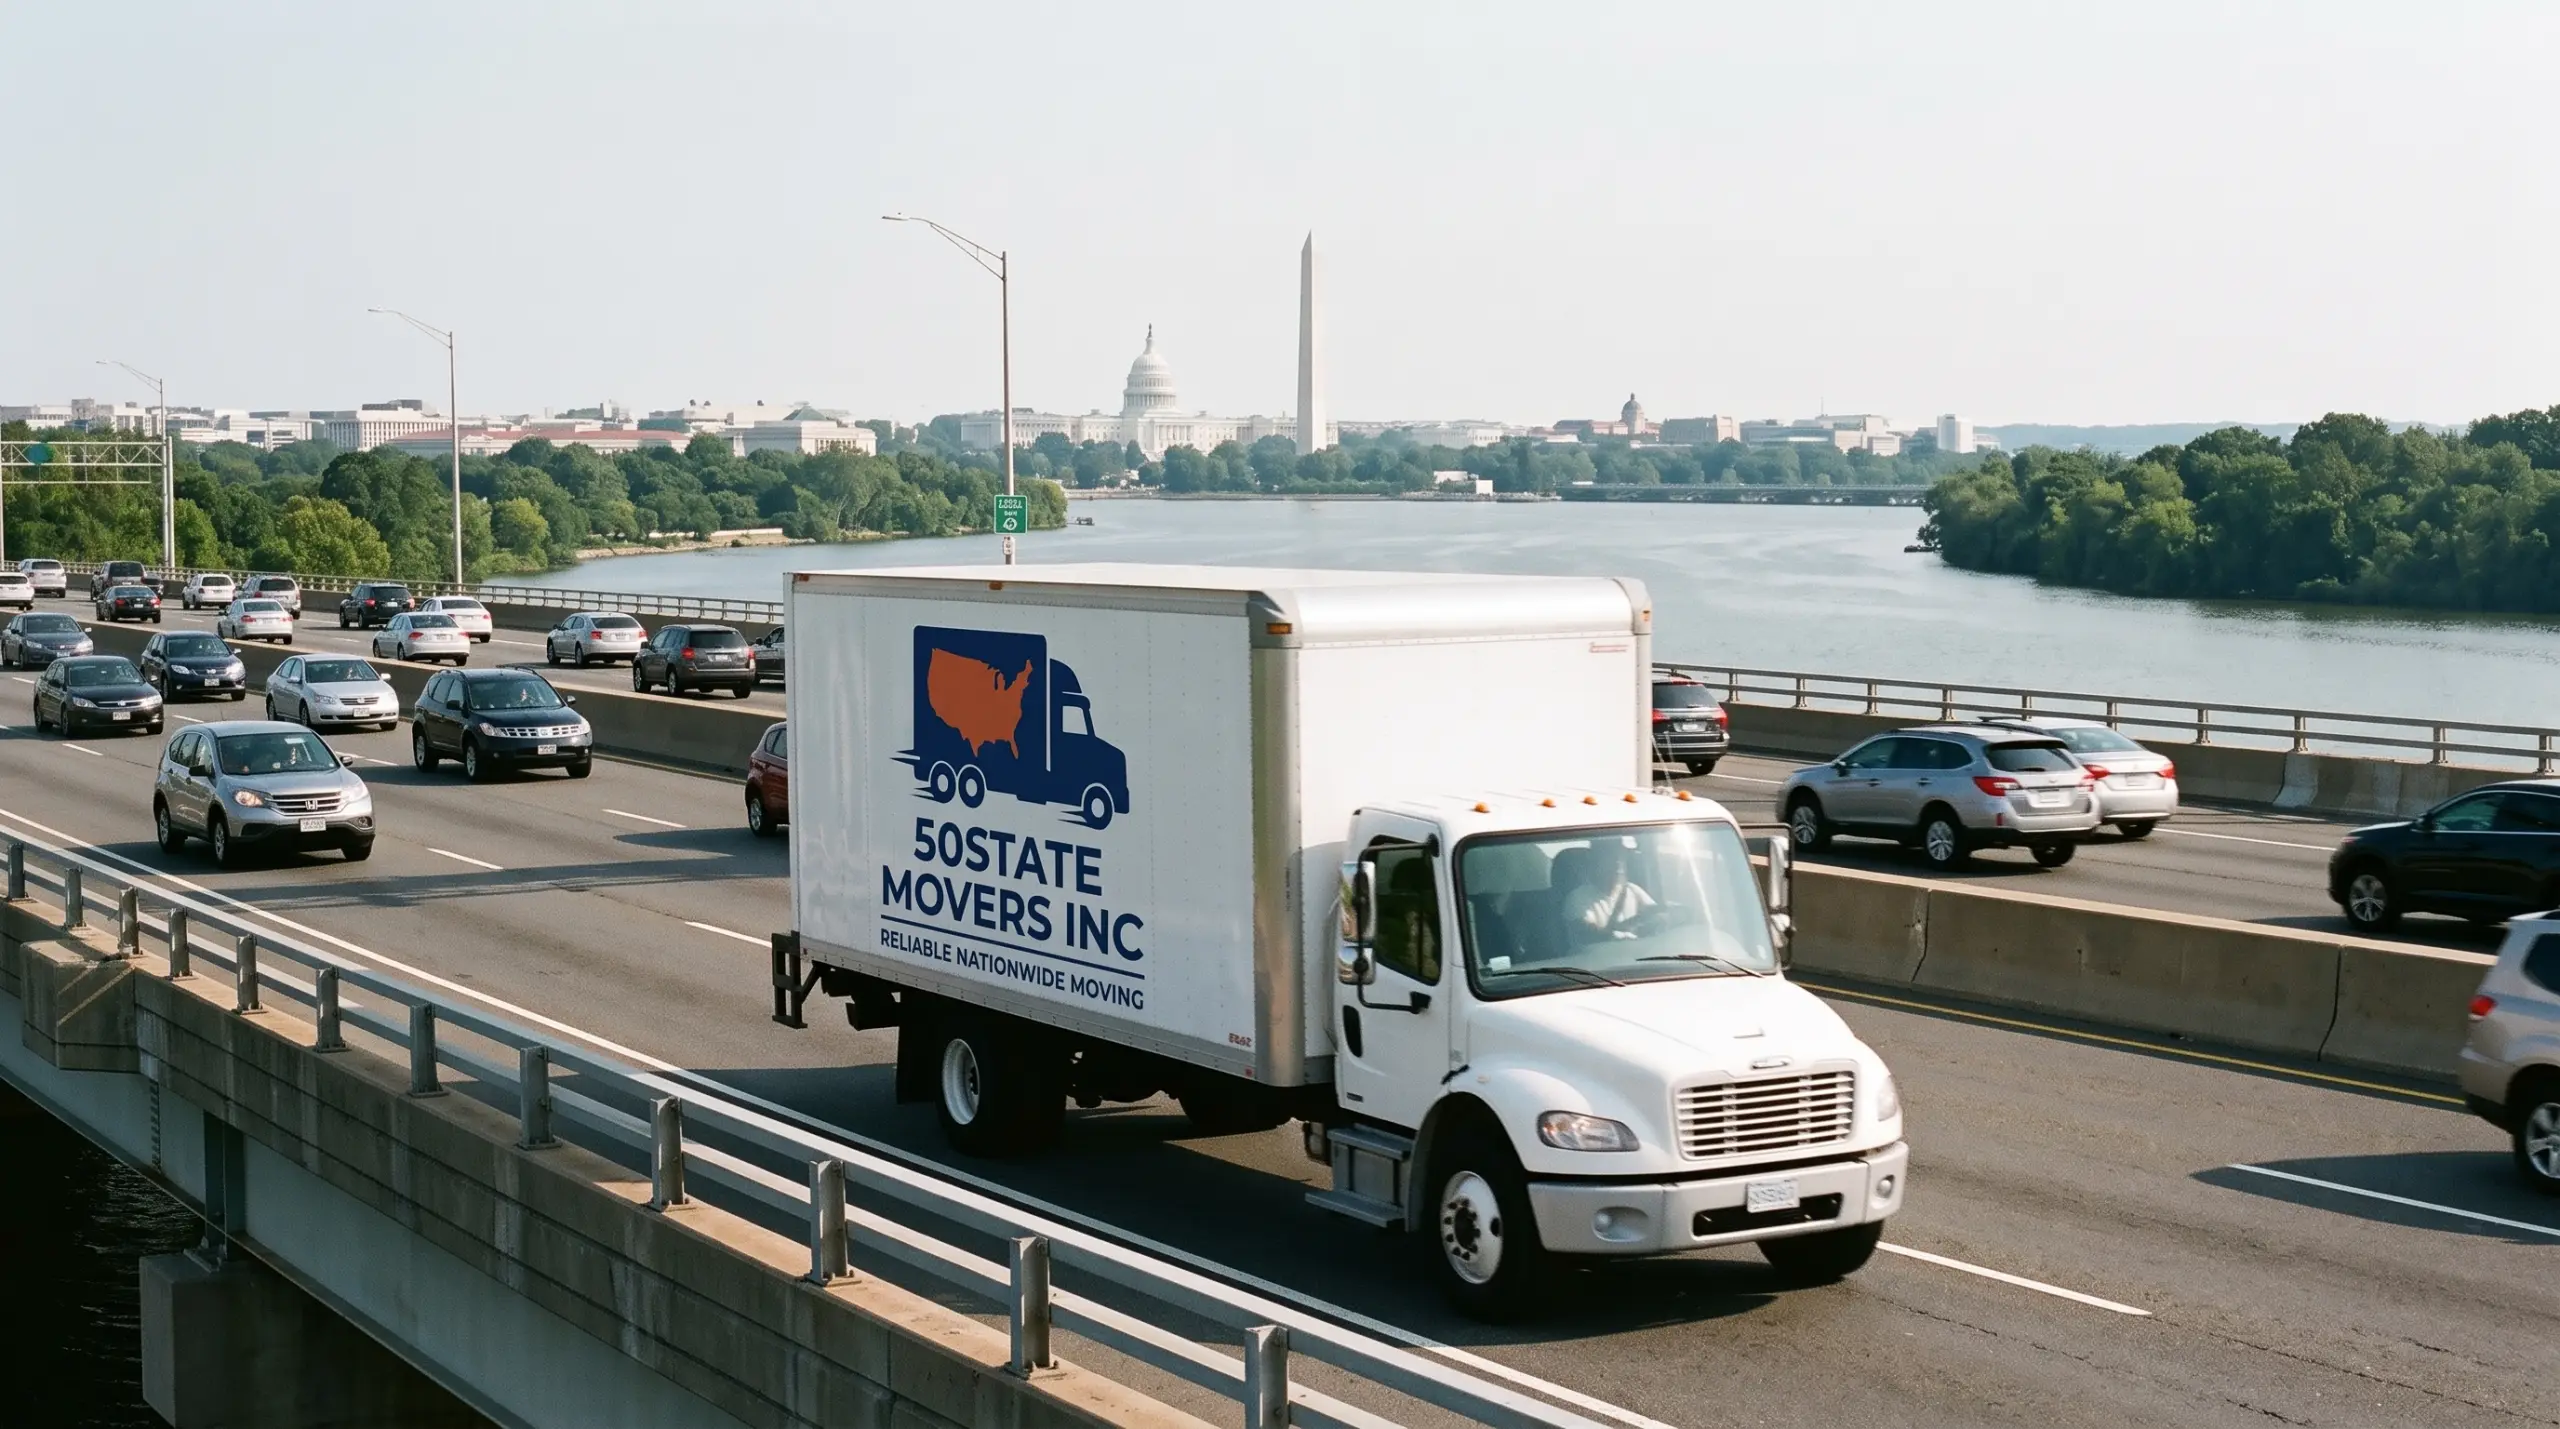
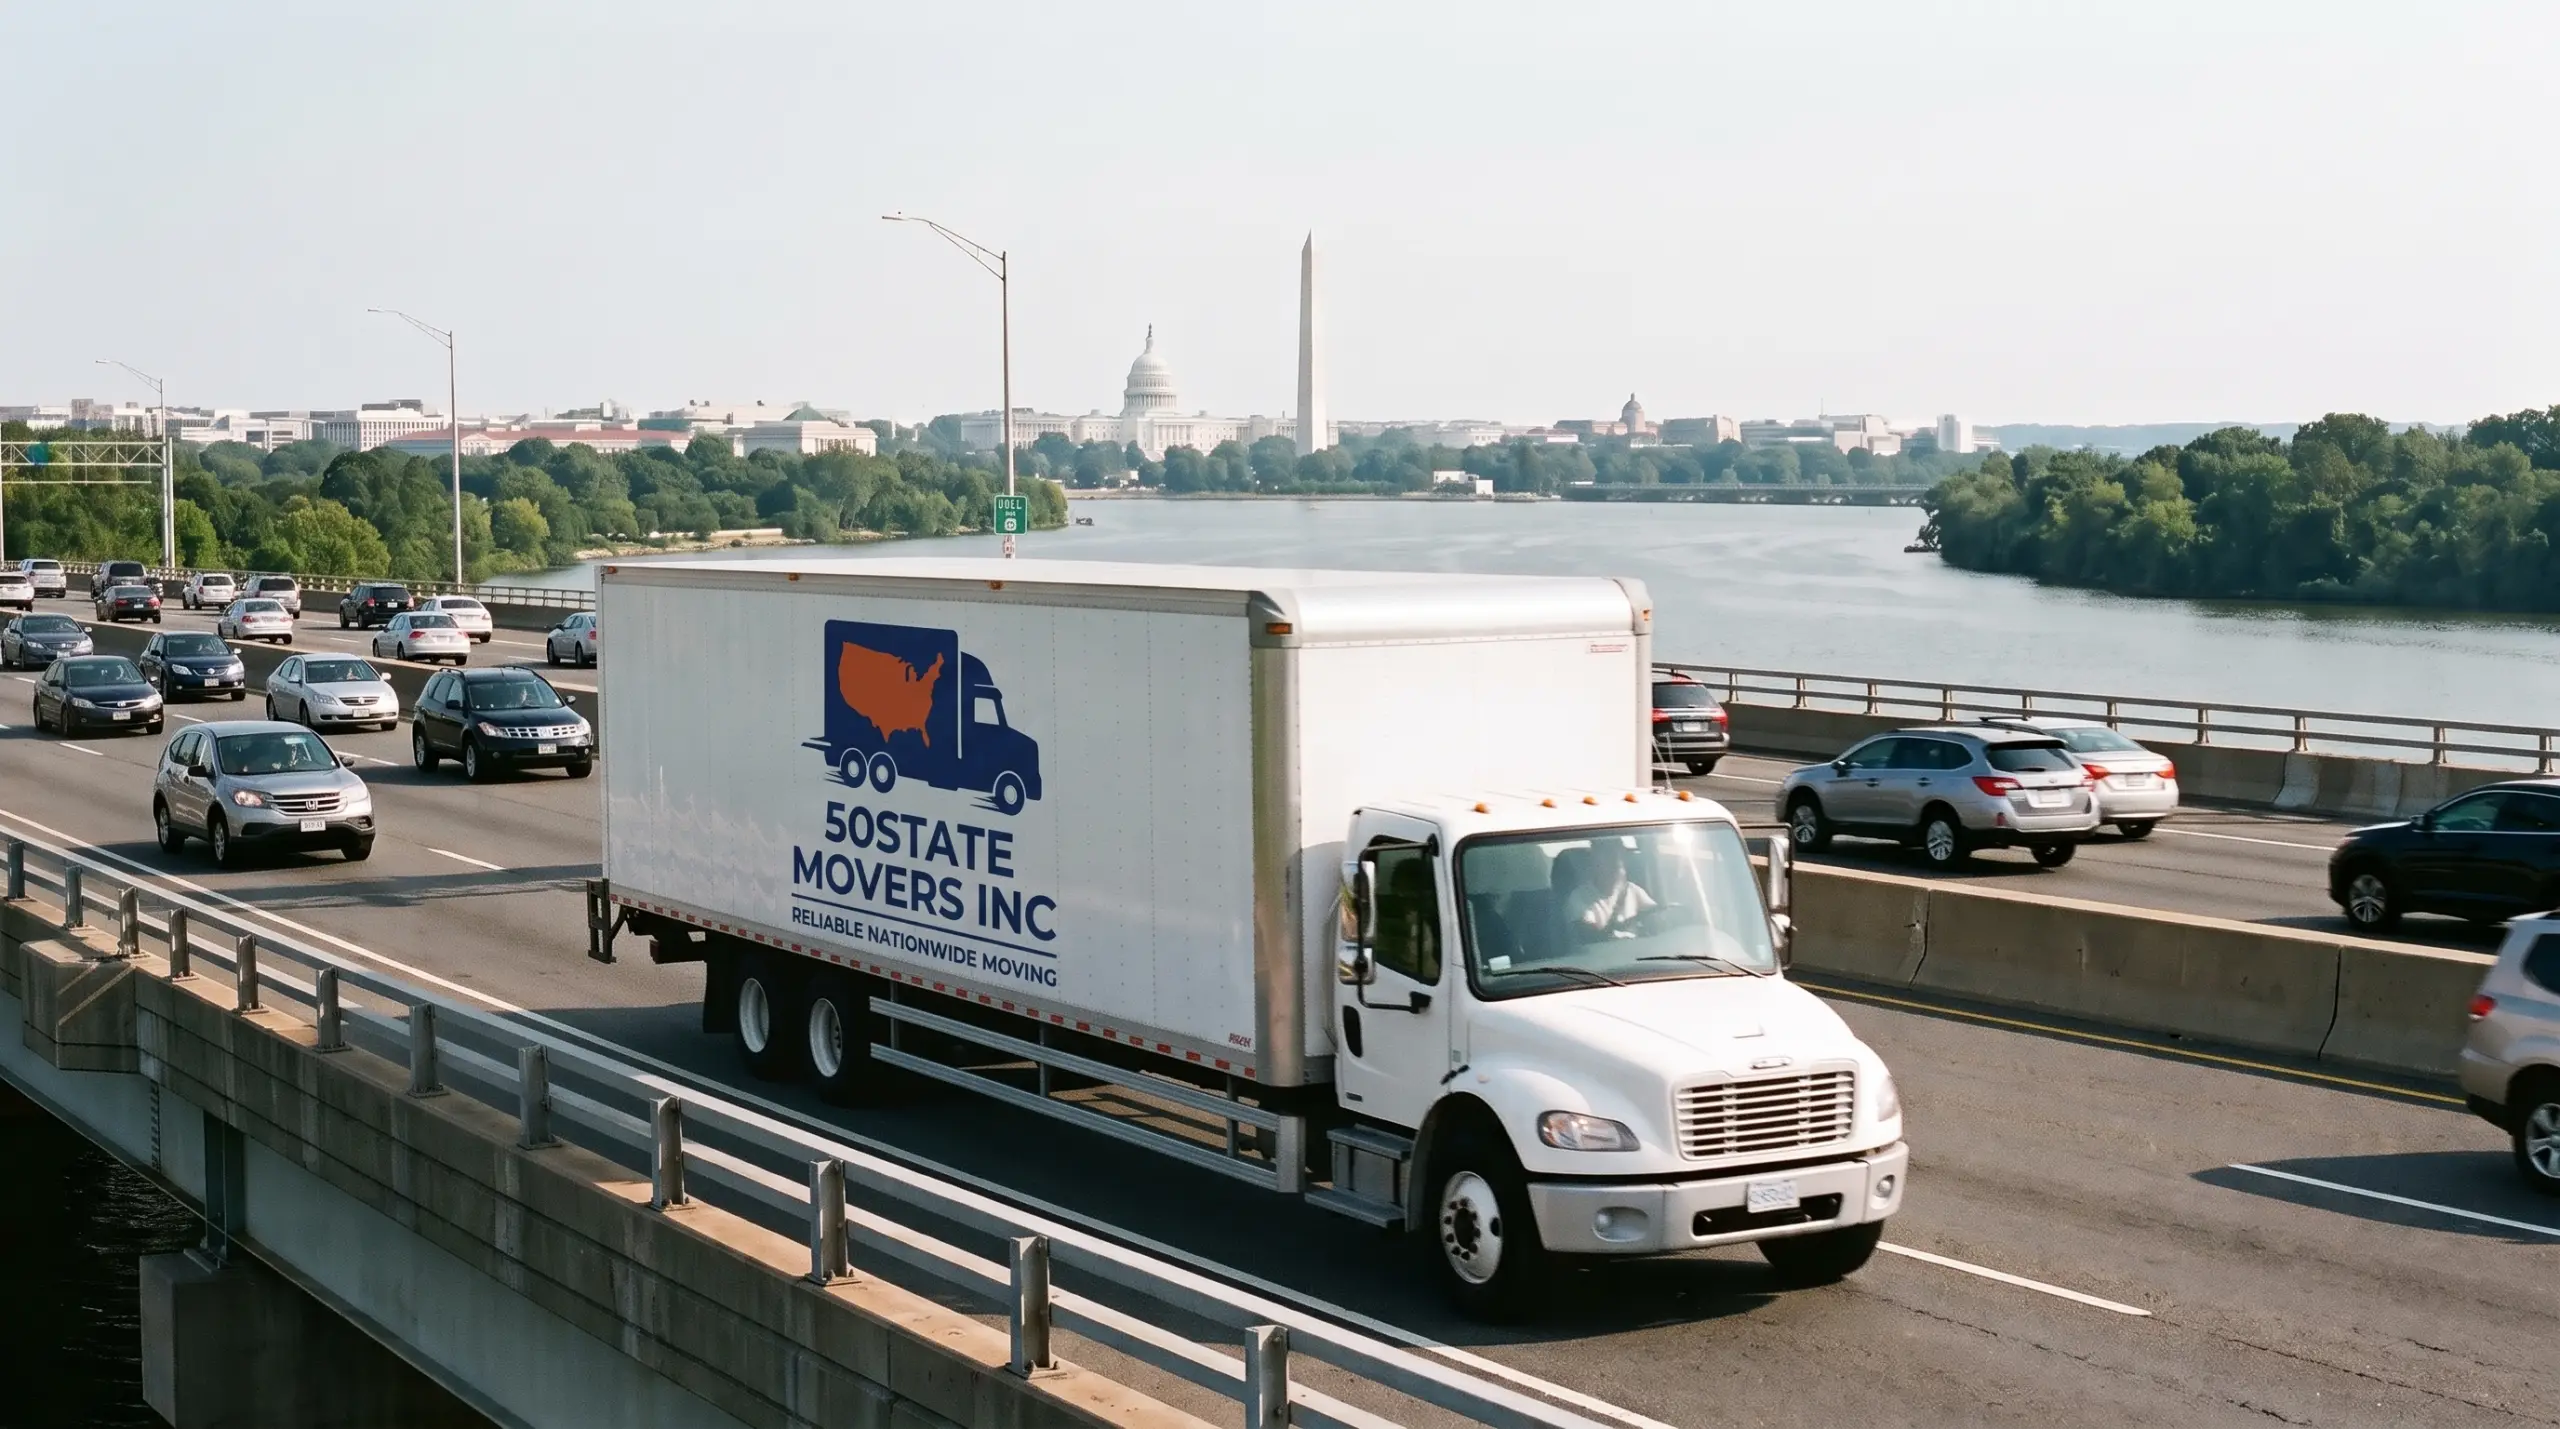
DC page: replace hero photos; desktop photo pinned right at a set width so the truck clears the copy on wide screens

diff --git a/scripts/build-moving-services-pages.js b/scripts/build-moving-services-pages.js
@@ -275,29 +275,19 @@ const PAGES = [
 /* ---------------------------------------------------------------- hero css */
 
 // Hero photos per page. The D.C. truck crosses a Potomac bridge with the
-// Capitol and the Monument on the skyline: the truck sits right of the copy,
-// the wash comes from the left, and on desktop the photo stops above the quote form (as on
+// Capitol and the Monument on the skyline. On desktop the photo is pinned to
+// the right edge at a set width, so on wider screens the truck moves clear of
+// the copy and the space on the left runs into the dark wash; and on desktop the photo stops above the quote form (as on
 // the NYC pages) so the whole truck shows.
 const HERO_CSS = {
   dc: `/* D.C. hero: the truck on a Potomac bridge, the Capitol on the skyline. */
 @media (min-width: 769px) {
   .hero::before {
     background:
-      linear-gradient(90deg, rgba(var(--wash), 0.9) 0%, rgba(var(--wash), 0.7) 34%, rgba(var(--wash), 0) 54%),
+      linear-gradient(90deg, var(--dark) calc(100% - max(1260px, 66%)), rgba(var(--wash), 0.9) calc(100% - max(1260px, 66%) + 180px), rgba(var(--wash), 0.62) max(40%, calc(100% - max(1260px, 66%) + 380px)), rgba(var(--wash), 0) max(56%, calc(100% - max(1260px, 66%) + 620px))),
       linear-gradient(180deg, rgba(var(--wash), 0.45) 0%, rgba(var(--wash), 0) 24%, rgba(var(--wash), 0) 88%, var(--dark) 100%),
-      var(--dark) url('/assets/images/dc/hero-desktop.webp') 0% 60% / max(118%, 1500px) auto no-repeat;
+      var(--dark) url('/assets/images/dc/hero-desktop.webp') right 62% / max(1260px, 66%) auto no-repeat;
     bottom: auto; height: calc(var(--photo-h, 100%) - 190px);
-  }
-}
-/* Wide screens: the copy column stays centred, so the photo keeps the size
-   it has at 1440px and sits against the right edge, with the truck still
-   beside the copy. What is left on the left runs into the dark wash. */
-@media (min-width: 1600px) {
-  .hero::before {
-    background:
-      linear-gradient(90deg, var(--dark) calc(100% - max(1600px, 83%)), rgba(var(--wash), 0.9) calc(100% - max(1600px, 83%) + 220px), rgba(var(--wash), 0.7) 42%, rgba(var(--wash), 0) 60%),
-      linear-gradient(180deg, rgba(var(--wash), 0.45) 0%, rgba(var(--wash), 0) 24%, rgba(var(--wash), 0) 88%, var(--dark) 100%),
-      var(--dark) url('/assets/images/dc/hero-desktop.webp') right 60% / max(1600px, 83%) auto no-repeat;
   }
 }
 @media (max-width: 768px) {
@@ -309,7 +299,7 @@ const HERO_CSS = {
         rgba(var(--wash), 0) 44vw,
         rgba(var(--wash), 0.88) 58vw,
         var(--dark) 72vw),
-      var(--dark) url('/assets/images/dc/hero-mobile.webp') center -86vw / 100% auto no-repeat;
+      var(--dark) url('/assets/images/dc/hero-mobile.webp') center -64vw / 100% auto no-repeat;
   }
 }
 @media (max-width: 768px) and (max-height: 640px) {
@@ -321,7 +311,7 @@ const HERO_CSS = {
         rgba(var(--wash), 0) 38vw,
         rgba(var(--wash), 0.88) 52vw,
         var(--dark) 66vw),
-      var(--dark) url('/assets/images/dc/hero-mobile.webp') center -90vw / 100% auto no-repeat;
+      var(--dark) url('/assets/images/dc/hero-mobile.webp') center -68vw / 100% auto no-repeat;
   }
 }
 `,

diff --git a/long-distance-movers-washington-dc/index.html b/long-distance-movers-washington-dc/index.html
@@ -1235,21 +1235,10 @@ details[open] p { animation: faqIn 0.4s var(--ease); }
 @media (min-width: 769px) {
   .hero::before {
     background:
-      linear-gradient(90deg, rgba(var(--wash), 0.9) 0%, rgba(var(--wash), 0.7) 34%, rgba(var(--wash), 0) 54%),
+      linear-gradient(90deg, var(--dark) calc(100% - max(1260px, 66%)), rgba(var(--wash), 0.9) calc(100% - max(1260px, 66%) + 180px), rgba(var(--wash), 0.62) max(40%, calc(100% - max(1260px, 66%) + 380px)), rgba(var(--wash), 0) max(56%, calc(100% - max(1260px, 66%) + 620px))),
       linear-gradient(180deg, rgba(var(--wash), 0.45) 0%, rgba(var(--wash), 0) 24%, rgba(var(--wash), 0) 88%, var(--dark) 100%),
-      var(--dark) url('/assets/images/dc/hero-desktop.webp') 0% 60% / max(118%, 1500px) auto no-repeat;
+      var(--dark) url('/assets/images/dc/hero-desktop.webp') right 62% / max(1260px, 66%) auto no-repeat;
     bottom: auto; height: calc(var(--photo-h, 100%) - 190px);
-  }
-}
-/* Wide screens: the copy column stays centred, so the photo keeps the size
-   it has at 1440px and sits against the right edge, with the truck still
-   beside the copy. What is left on the left runs into the dark wash. */
-@media (min-width: 1600px) {
-  .hero::before {
-    background:
-      linear-gradient(90deg, var(--dark) calc(100% - max(1600px, 83%)), rgba(var(--wash), 0.9) calc(100% - max(1600px, 83%) + 220px), rgba(var(--wash), 0.7) 42%, rgba(var(--wash), 0) 60%),
-      linear-gradient(180deg, rgba(var(--wash), 0.45) 0%, rgba(var(--wash), 0) 24%, rgba(var(--wash), 0) 88%, var(--dark) 100%),
-      var(--dark) url('/assets/images/dc/hero-desktop.webp') right 60% / max(1600px, 83%) auto no-repeat;
   }
 }
 @media (max-width: 768px) {
@@ -1261,7 +1250,7 @@ details[open] p { animation: faqIn 0.4s var(--ease); }
         rgba(var(--wash), 0) 44vw,
         rgba(var(--wash), 0.88) 58vw,
         var(--dark) 72vw),
-      var(--dark) url('/assets/images/dc/hero-mobile.webp') center -86vw / 100% auto no-repeat;
+      var(--dark) url('/assets/images/dc/hero-mobile.webp') center -64vw / 100% auto no-repeat;
   }
 }
 @media (max-width: 768px) and (max-height: 640px) {
@@ -1273,7 +1262,7 @@ details[open] p { animation: faqIn 0.4s var(--ease); }
         rgba(var(--wash), 0) 38vw,
         rgba(var(--wash), 0.88) 52vw,
         var(--dark) 66vw),
-      var(--dark) url('/assets/images/dc/hero-mobile.webp') center -90vw / 100% auto no-repeat;
+      var(--dark) url('/assets/images/dc/hero-mobile.webp') center -68vw / 100% auto no-repeat;
   }
 }
 /* Static service cards: no hover lift or zoom, since they don't open. */
